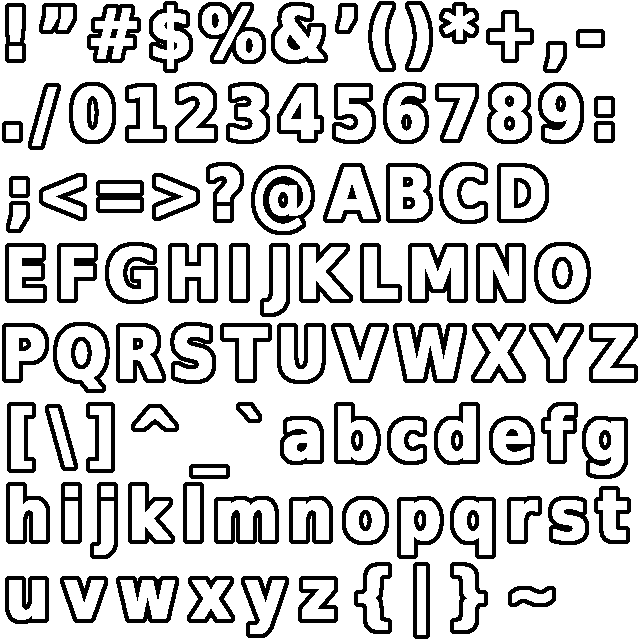
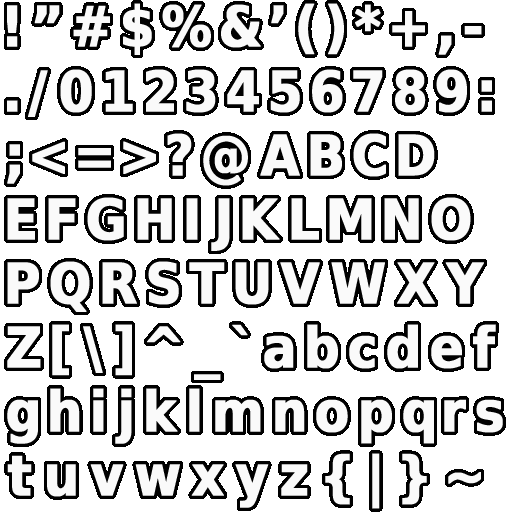
reverted to a 512x file texture
git-svn-id: http://svn.code.sf.net/p/actiongame/code/trunk@5381 e016b1c5-ed68-44aa-a2f7-31cac88cffde

Changed region(s): [[0.0, 0.0, 1.0, 1.0]]

diff --git a/ac/source/src/protos.h b/ac/source/src/protos.h
@@ -484,7 +484,7 @@ struct font
 
 #define VIRTH 1800
 #define FONTH (curfont->defaulth)
-#define PIXELTAB (10*curfont->defaultw)
+#define PIXELTAB (8*curfont->defaultw)
 
 extern int VIRTW; // virtual screen size for text & HUD
 extern font *curfont;
